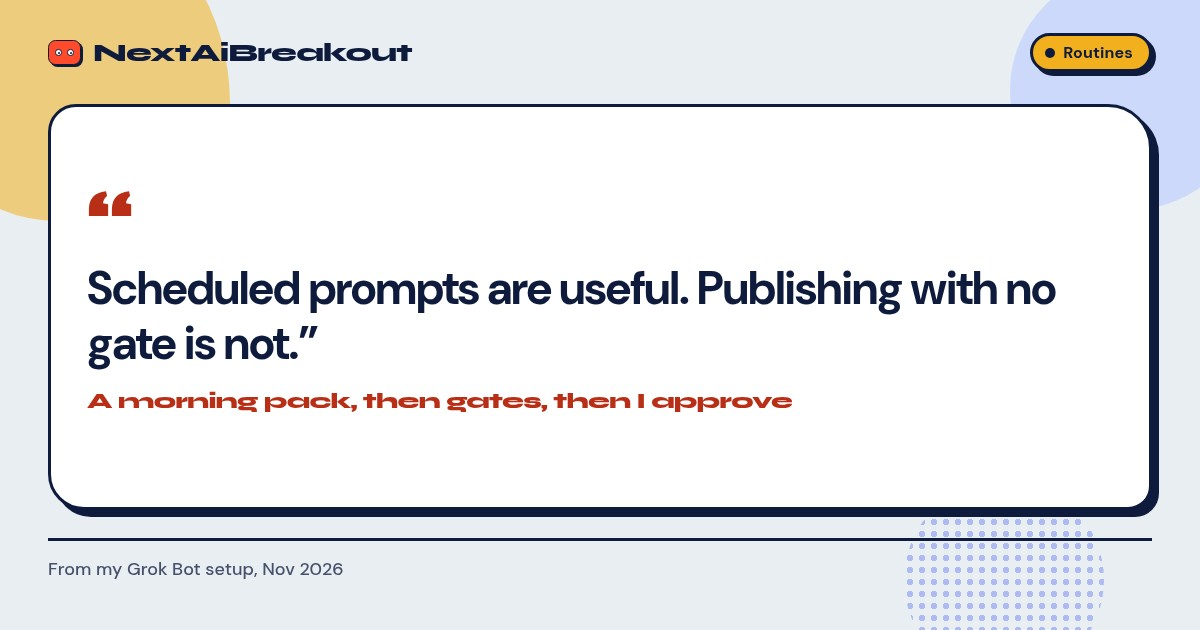
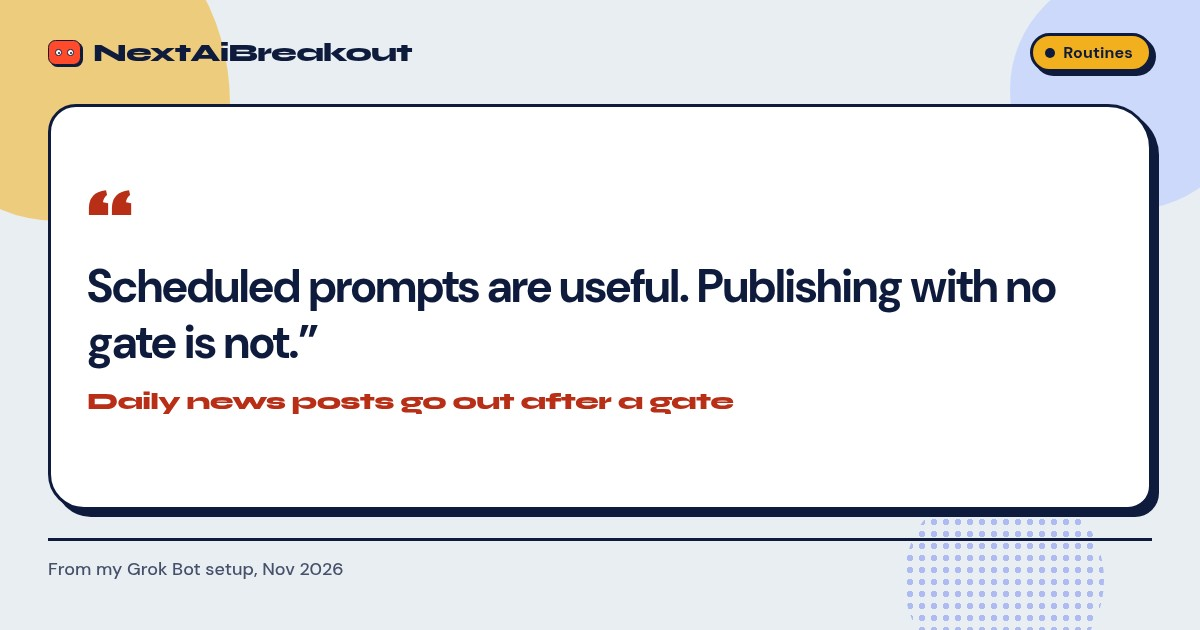
Tips: update scheduled news-and-gate copy, and add hook, lesson, and re-check pages
The 6:45 AM morning pack is retired. Daily news posts now write on a schedule, pass an automated gate, and go out to the site and X; everything else still waits for my OK. Three new 2026-11-14 tip pages lead the homepage strip: open with a hook line (with the 7 real before-and-after first lines), turn lessons into posts, and re-check after late edits.

Changed region(s): [[0.0617, 0.4222, 0.8942, 0.4825], [0.0617, 0.6032, 0.6783, 0.6635], [0.0617, 0.5127, 0.2775, 0.573]]

diff --git a/tips.py b/tips.py
@@ -34,7 +34,7 @@ TIPS = [
         "alt": "Brand card comparing five dones with one checked result.",
         "slot": "A compare card: five dones versus one checked result.",
         "section": "quality",
-        "siblings": ["bot-drafts-checker-reviews", "before-after-proof", "drafts-only-approval"],
+        "siblings": ["before-after-proof", "drafts-only-approval", "recheck-after-late-edits"],
     },
     {
         "slug": "agent-to-agent-handoffs",
@@ -170,15 +170,69 @@ TIPS = [
     },
     {
         "slug": "scheduled-pack-and-gates",
-        "title": "A morning pack, then gates, then I approve",
-        "seo_title": "A morning pack, then gates | NextAiBreakout",
-        "meta": "I run a morning pack routine, then later gates that check the work before it can go out. Scheduled prompts are useful. Publishing with no gate is not.",
-        "tip": "I run a morning pack routine, then later gates that check the work before it can go out. Scheduled prompts are useful. Publishing with no gate is not. When do you actually review what your routines produced?",
-        "how": "The morning pack runs at 6:45 AM Edmonton time. Later gates check the work at fixed times before anything can go out. The routine writes the draft. The gates catch problems. I still approve. A schedule without a review window is just a way to publish mistakes on time.",
+        "title": "Daily news posts go out after a gate",
+        "seo_title": "Daily news posts go out after a gate | NextAiBreakout",
+        "meta": "Daily news posts write, pass an automated gate, and go out to the site and X on a schedule. Everything else still waits for my OK.",
+        "tip": "Daily news posts write, pass an automated gate, and go out to the site and X on a schedule. Everything else still waits for my OK. Scheduled prompts are useful. Publishing with no gate is not. When do you actually review what your routines produced?",
+        "how": "The 6:45 AM morning pack is retired. A scheduled routine writes each daily news post. An automated gate re-checks the sources, confirms the links return 200, and rejects placeholders and a missing hook line. Then the post publishes on the site and goes to X. Sends, spending, and other public posts still wait for my OK. A schedule without a gate is just a way to publish mistakes on time.",
         "alt": "Brand card quoting the scheduling rule: scheduled prompts are useful, publishing with no gate is not.",
-        "slot": "A screenshot of the morning pack and later gates on the routines schedule, showing the real times on screen.",
+        "slot": "A card of the checked-then-scheduled rule, with no clock times.",
         "section": "routines",
-        "siblings": ["check-your-routine-timezone", "bot-drafts-checker-reviews", "drafts-only-approval"],
+        "siblings": ["drafts-only-approval", "open-with-a-hook-line", "recheck-after-late-edits"],
+    },
+    {
+        "slug": "open-with-a-hook-line",
+        "title": "Open every post with a hook line",
+        "seo_title": "Open every post with a hook line | NextAiBreakout",
+        "meta": "On Nov 14 I rewrote the first line of 7 X drafts: Days 10 to 14 and two weekly thread openers. A hook is a true, specific first line the post delivers.",
+        "tip": "On Nov 14 I rewrote the first line of 7 X drafts: Days 10 to 14 and two weekly thread openers. A hook is a true, specific first line, ideally with a real number or payoff, that the post actually delivers. No clickbait. What's the first line you'd fix on your feed?",
+        "how": """On Nov 14 I rewrote the first line of 7 unposted X drafts: Days 10 to 14, and the Week 1 and Week 2 thread openers. For most of them, only the first line changed. A few needed one more edit so the whole post stayed true.
+
+Here are the real first lines.
+
+Day 10, proof. Before: No bug is fixed until it's proven with a before and after. After: My bots aren't allowed to say "fixed" until they show me a before and an after.
+
+Day 11, approvals. Before: Spending and credentials stay on a one-tap approval. After: Two things my bots can't do without my tap: spend money or sign in with my credentials.
+
+Day 12, draft then check. Before: I had a bot build a daily email, then a checker bot review it before anything could go out. After: Two bots, one daily email: one wrote it, the other checked it before anything could go out.
+
+Day 13, scripted cards. Before: I don't design a new image for every post. After: One script makes every post card in my feed, all in one brand style.
+
+Day 14, scheduled posts. Before: I run a morning pack routine, then later gates that check the work before it can go out. After: Every post in my queue gets a full review from a checker bot before a routine posts it on schedule.
+
+Week 1 opener. Before: This week I wrote down what actually mattered in a Grok Bot fleet, plus the tradeoffs, not just the wins. After: 7 things that actually mattered running a Grok Bot fleet this week, with the tradeoffs, not just the wins.
+
+Week 2 opener. Before: Week 2: we built a real app in a day, and I tightened the rules that keep a fleet honest, including the tradeoffs. After: We built a real Android app in one day with a team of bots, and I tightened the rules that keep a fleet honest, tradeoffs included.
+
+The rule I use now: lead with the most specific true thing in the post, a number, a time, or a result. Write it in first person if it's something I actually did. If the post can't pay off the hook, I change the line, not the facts. I never use a number I can't point to.""",
+        "alt": "Brand card with the number 7, labeled first lines rewritten.",
+        "slot": "A number card: 7 first lines rewritten.",
+        "section": "quality",
+        "siblings": ["turn-lessons-into-posts", "recheck-after-late-edits", "scheduled-pack-and-gates"],
+    },
+    {
+        "slug": "turn-lessons-into-posts",
+        "title": "Turn lessons into posts",
+        "seo_title": "Turn lessons into posts | NextAiBreakout",
+        "meta": "On Nov 14, the hook-line rule became a lesson post that goes through the same automated gate as my daily news.",
+        "tip": "On Nov 14, the hook-line rule became a lesson post that goes through the same automated gate as my daily news. When we adopt a lesson for ourselves, it also becomes a post so other people can learn it. Would you publish your bots' lessons?",
+        "how": "We adopted the hook-line rule on Nov 14, then I wrote it up as a lesson post with the real before-and-after first lines from our own drafts. That lesson goes through the same automated gate as the daily news: sources re-checked, links returning 200, no placeholders, and a hook line the post actually delivers. I want other people to be able to use what we just had to learn.",
+        "alt": "Brand card comparing a fix we adopted with the same lesson turned into a post.",
+        "slot": "A compare card: we fixed it, now it's a post.",
+        "section": "skills",
+        "siblings": ["open-with-a-hook-line", "scheduled-pack-and-gates", "shared-skills-across-bots"],
+    },
+    {
+        "slug": "recheck-after-late-edits",
+        "title": "Re-check after late edits",
+        "seo_title": "Re-check after late edits | NextAiBreakout",
+        "meta": "On Nov 14, Day 12 and Day 14 copy was corrected after the first review, then went back to the checker. A pass only covers the version it reviewed.",
+        "tip": "On Nov 14, Day 12 and Day 14 copy was corrected after the first review, then went back to the checker. A pass only covers the version it reviewed, so I re-check the file after any late edit. How do you catch late edits?",
+        "how": "After the first review, Day 12's cons line and the Day 14 post were rewritten so they matched how publishing works now. Day 14 was reworded again after the checker said an earlier line overstated the mechanism. Those changed drafts went back to the checker and passed. A pass only covers the version it reviewed. If anyone edits the file after that, it needs another pass before it can go out.",
+        "alt": "Brand card showing a passed draft that was edited, so it has to be checked again.",
+        "slot": "A before-and-after card: passed, then edited, so check again.",
+        "section": "quality",
+        "siblings": ["open-with-a-hook-line", "quality-checker-before-it-reaches-you", "scheduled-pack-and-gates"],
     },
 ]
 
@@ -281,7 +335,10 @@ CAPTIONS = {
     "approve-spend-and-credentials": 'The spend-and-credentials approval rule, as a brand card.',
     "bot-drafts-checker-reviews": 'Bot drafts, checker reviews, I approve the send.',
     "scripted-brand-cards": 'One style, every card.',
-    "scheduled-pack-and-gates": 'The scheduled-pack-and-gates rule, as a brand card.',
+    "scheduled-pack-and-gates": 'The scheduled-news-and-gate rule, as a brand card.',
+    "open-with-a-hook-line": 'Seven first lines rewritten, as a brand card.',
+    "turn-lessons-into-posts": 'A lesson becomes a post, as a brand card.',
+    "recheck-after-late-edits": 'Re-check after a late edit, as a brand card.',
     "one-job-per-bot": 'The one-job-per-bot rule, as a brand card.',
     "write-down-checker-rules": 'The written-checker-rules rule, as a brand card.',
     "isolate-the-app-repo": 'The isolated-repo rule, as a brand card.',
@@ -290,6 +347,18 @@ CAPTIONS = {
     "human-publish-gate": 'The human publish gate, as a brand card.',
 }
 
+
+
+
+def paras(text, first_class=None):
+    """Split on blank lines so a long how-section can be more than one <p>."""
+    parts = [p.strip() for p in re.split(r"\n\s*\n", text) if p.strip()]
+    bits = []
+    for i, part in enumerate(parts):
+        cls = first_class if first_class and i == 0 else None
+        attr = f' class="{cls}"' if cls else ""
+        bits.append(f"<p{attr}>{e(part)}</p>")
+    return "".join(bits) if bits else ""
 
 
 def path_of(slug=None):
@@ -378,8 +447,17 @@ PROMPTS = {
         {'note': 'For the checker bot.', 'text': "You are the checker for this email. Review the draft before anything can go out. Do not send it. Flag problems and hold it if it isn't ready. It only goes out after I approve the send. Nothing goes out on a bot's say-so alone. Fast draft, slow send."},
     ],
     'scheduled-pack-and-gates': [
-        {'note': 'For the morning pack.', 'text': 'You run the morning pack. Write the draft of the work for the day. Do not publish or send it. Scheduled prompts are useful; publishing with no gate is not. Later gates will check the work, and I still approve, before anything can go out.'},
-        {'note': 'For a later gate.', 'text': 'You are a later gate on scheduled work. Check the draft at the time I scheduled you. Catch problems before anything can go out. Do not publish or send. I still approve. A schedule without a review is not a reason to let work go out.'},
+        {'note': 'For the daily news writer.', 'text': 'You write the daily news post on the schedule I set. Do not publish it yourself. The draft has to pass the automated gate first: sources re-checked, links returning 200, no placeholders, and a hook line the post actually delivers. Scheduled prompts are useful; publishing with no gate is not.'},
+        {'note': 'For the automated gate.', 'text': 'You are the automated gate for the daily news post. Re-check the sources, confirm every link returns 200, reject placeholders, and confirm the first line is a hook the post delivers. If it fails, hold it. If it passes, it can publish to the site and X. This gate is only for the daily news post. Sends, spending, and other public posts still wait for my OK.'},
+    ],
+    'open-with-a-hook-line': [
+        {'text': 'Every post you draft opens with a hook line: a true, specific first line, ideally with a real number or payoff, that the rest of the post actually delivers. No clickbait. If the post cannot pay off the hook, change the line, not the facts. Never use a number you cannot point to.'},
+    ],
+    'turn-lessons-into-posts': [
+        {'text': 'When we adopt a lesson or improvement for ourselves, write it up as a post so other people can learn it. Use real before-and-after examples from our own files, quoted word for word. Do not invent numbers or stories. The post goes through the same automated gate as the daily news before it can publish.'},
+    ],
+    'recheck-after-late-edits': [
+        {'text': 'A review only covers the version you checked. If the file is edited after you pass it, the pass no longer applies. Re-check the file after any late edit, and do not let it go out until that new pass is done.'},
     ],
 }
 
@@ -585,14 +663,46 @@ PROS_CONS = {
     },
     "scheduled-pack-and-gates": {
         "pros": [
-            "I get a morning pack without publishing anything.",
-            "Later gates catch problems before anything can go out.",
-            "I still approve.",
+            "Daily news can go out on schedule after a real gate, without me tapping send.",
+            "The gate re-checks sources, link status, placeholders, and the hook line.",
+            "Sends, spending, and other public posts still wait for my OK.",
         ],
         "cons": [
-            "A schedule without a review window just publishes mistakes on time.",
-            "I have to be there for the approval, or the work sits.",
-            "The pack only helps if I actually read it.",
+            "A schedule without a gate is just a way to publish mistakes on time.",
+            "If the gate is weak, a bad news post can still go out.",
+            "The gate only covers the version it reviewed, so a late edit needs another pass.",
+        ],
+    },
+    "open-with-a-hook-line": {
+        "pros": [
+            "The first line makes a concrete claim the rest of the post has to pay off.",
+            "A real number or payoff is easier to check than a vague opener.",
+            "I can point at the 7 rewrites, not a made-up example.",
+        ],
+        "cons": [
+            "Every hook has to be checked for truth.",
+            "If the post can't deliver the line, I have to rewrite the opener, not dress up the facts.",
+        ],
+    },
+    "turn-lessons-into-posts": {
+        "pros": [
+            "Other people can learn the same lesson from a real example.",
+            "The post uses our own drafts, so nothing is invented.",
+            "It goes through the same automated gate as the daily news.",
+        ],
+        "cons": [
+            "You show your mistakes and late fixes in public.",
+            "A lesson post still has to wait on the gate, so it doesn't go out the second you learn it.",
+        ],
+    },
+    "recheck-after-late-edits": {
+        "pros": [
+            "What goes out is the version that actually passed.",
+            "A late correction can't ride on an earlier pass.",
+        ],
+        "cons": [
+            "Each late edit means another review round.",
+            "If I skip the re-check, a failed line can still go out.",
         ],
     },
 }
@@ -658,10 +768,10 @@ def tip_page(t, year):
 {crumbs(("Grok Bot Tips", "/tips/", False), (t["title"], path_of(t["slug"]), True))}
 {B.peek_h1(e(t["title"]), B.CHECKER_BOT)}
 {tip_date_html(t["slug"])}
-<p class="tip-body">{e(t["tip"])}</p>
+{paras(t["tip"], "tip-body")}
 {card_figure(t["slug"], t["alt"], CAPTIONS[t["slug"]], lazy=False)}
 <h2 class="how">How I did it</h2>
-<p class="how-body">{e(t["how"])}</p>
+{paras(t["how"], "how-body")}
 {tip_extras(t["slug"])}
 <nav class="tip-more" aria-label="More tips">
 <h2>More tips</h2>

diff --git a/brand/render_cutouts.py b/brand/render_cutouts.py
@@ -226,7 +226,18 @@ TIPS = [
          sub="Same colours, same type. No photos of people."),
     dict(slug="scheduled-pack-and-gates", layout="quote", pill="Routines",
          quote="Scheduled prompts are useful. Publishing with no gate is not.",
-         title="A morning pack, then gates, then I approve"),
+         title="Daily news posts go out after a gate"),
+    dict(slug="open-with-a-hook-line", layout="bignum", pill="Writing",
+         number="7", label="First lines rewritten.",
+         sub="Days 10 to 14, and two weekly thread openers. Nov 14, 2026."),
+    dict(slug="turn-lessons-into-posts", layout="compare", pill="Lessons",
+         headline="A lesson becomes a post.",
+         left_pill="We fixed it", right_pill="Now it's a post",
+         row="What we do", left="Adopt the lesson", right="Write it up"),
+    dict(slug="recheck-after-late-edits", layout="beforeafter", pill="Quality",
+         headline="Re-check after late edits.",
+         before=["Passed.", "A review of an older draft"],
+         after=["Edited, so check again", "A pass covers only that version"]),
     dict(slug="one-job-per-bot", layout="quote", pill="Jobs",
          quote="Give each bot one job.",
          title="Give every bot one job"),
@@ -423,9 +434,9 @@ X_CARDS = [
     dict(day=13, title="Script the cards, don't redesign every post",
          tip="I don't design a new image for every post. A script builds the cards in one brand style: same colours, same type, no photos of people.",
          pro="The feed stays consistent.", con="A bad template gets copied onto every card."),
-    dict(day=14, title="A morning pack, then gates, then I approve",
-         tip="I run a morning pack routine, then later gates that check the work before it can go out.",
-         pro="The draft is ready on a schedule.", con="A gate only catches what it checks for."),
+    dict(day=14, title="Daily news posts go out after a gate",
+         tip="Daily news posts write, pass an automated gate, and go out to the site and X on a schedule.",
+         pro="News can go out on a schedule after a gate.", con="A schedule without a gate publishes mistakes on time."),
 ]
 
 

diff --git a/selfcheck.py b/selfcheck.py
@@ -38,7 +38,12 @@ for f in files:
     for m in re.finditer(r"-[\d.,]+[KM]? downloads|\b0 downloads/day", txt): F(rel, f"bad downloads figure {m.group(0)!r}")
     for m in re.finditer(r"\+[\d.,]+[KM]? [a-z/]+ total\b", txt): F(rel, f"plus sign on a total {m.group(0)!r}")
     if ndays < 7 and rel.endswith(".html"):
-        for m in re.finditer(r"\b(this|last) week\b|week's", txt, re.I): F(rel, f"'week' wording with only {ndays} days of data: {txt[max(0,m.start()-40):m.end()+20]!r}")
+        for m in re.finditer(r"\b(this|last) week\b|week's", txt, re.I):
+            # Exact draft quotes (marked Before:/After:) may contain "this week"; that is not a claim we have a week of site data.
+            window = txt[max(0, m.start() - 120):m.end()]
+            if re.search(r"\b(Before|After):", window):
+                continue
+            F(rel, f"'week' wording with only {ndays} days of data: {txt[max(0,m.start()-40):m.end()+20]!r}")
     # JSON-LD parses, and item pages' description matches the visible one
     for blob in re.findall(r'<script type="application/ld\+json">(.*?)</script>', raw, re.S):
         try: j = json.loads(blob)

diff --git a/CATALOG.md b/CATALOG.md
@@ -27,7 +27,7 @@ Counts on the site are computed from this file (and from `tips.py` for topic sti
 
 ## Sort order
 
-Newest first: `date` descending, then `seq` descending, then `id`. The 20 Grok Bot tips all share the publish date 2026-11-12 (see each row's `source`). Their `seq` is the order they were registered that day: the 14 full tip pages (Days 1–14), then the 6 hub-only tips that landed in a later commit the same morning.
+Newest first: `date` descending, then `seq` descending, then `id`. The original 20 Grok Bot tips share the publish date 2026-11-12 (see each row's `source`). Their `seq` is the order they were registered that day: the 14 full tip pages (Days 1–14), then the 6 hub-only tips that landed in a later commit the same morning. Tips dated 2026-11-14 sort ahead of that group; their `seq` breaks ties on that day.
 
 ## How the news pipeline should append
 
